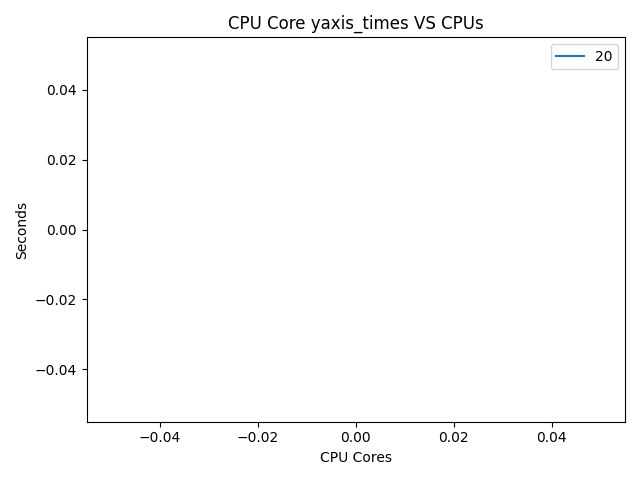
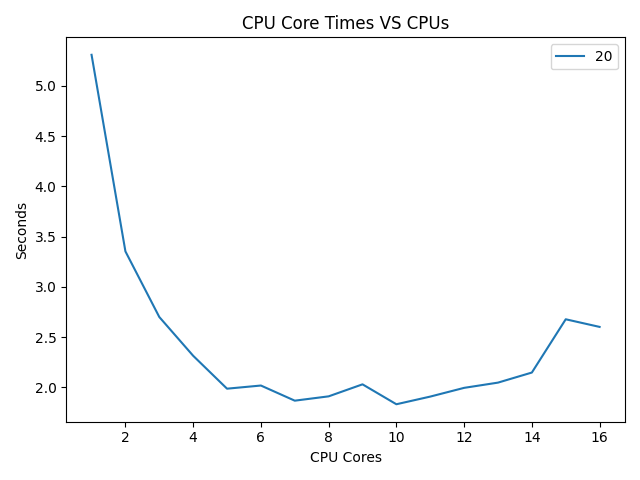
fdsa

diff --git a/lesson_03/prove/prove.py b/lesson_03/prove/prove.py
@@ -1,20 +1,3 @@
-"""
-Course: CSE 251 
-Lesson: L03 Prove
-File:   prove.py
-Author: <Add name here>
-
-Purpose: Video Frame Processing
-
-Instructions:
-
-- Follow the instructions found in Canvas for this assignment.
-- No other packages or modules are allowed to be used in this assignment.
-  Do not change any of the from and import statements.
-- Only process the given MP4 files for this assignment.
-- Do not forget to complete any TODO comments.
-"""
-
 from matplotlib.pylab import plt  # load plot library
 from setup import setup as ensure_assignment_is_setup
 from PIL import Image
@@ -30,7 +13,7 @@ CPU_COUNT = mp.cpu_count() + 4
 
 # TODO Your final video needs to have 300 processed frames.
 # However, while you are testing your code, set this much lower!
-FRAME_COUNT = 20
+FRAME_COUNT = 300
 
 # RGB values for reference
 RED = 0
@@ -70,7 +53,7 @@ def process_frames_with_pool(cpu_count):
     xaxis_cpus = []
     yaxis_times = []
 
-    all_process_time = timeit.default_timer()
+    # all_process_time = timeit.default_timer()
 
     pool = mp.Pool(processes=cpu_count)
     
@@ -87,6 +70,10 @@ def process_frames_with_pool(cpu_count):
     xaxis_cpus.append(cpu_count)
     yaxis_times.append(total_time)
 
+    # Log the total time this took
+    log.write(f'Total Time for {cpu_count} CPU Cores: {total_time} seconds.')
+    print()
+
     pool.close()
     pool.join()
 
@@ -96,19 +83,22 @@ def main():
     xaxis_cpus_all = []
     yaxis_times_all = []
 
+    log = Log(show_terminal=True)
+
     # Process frames for each CPU core count from 1 to CPU_COUNT
     for cpu_count in range(1, CPU_COUNT + 1):
         xaxis_cpus, yaxis_times = process_frames_with_pool(cpu_count)
         xaxis_cpus_all.extend(xaxis_cpus)
         yaxis_times_all.extend(yaxis_times)
 
-        # Print the total time this took for the current CPU core count
-        print(f'Total Time for {cpu_count} CPU Cores: {yaxis_times[-1]}')
+    # Calculate and print the total time
+    total_time = sum(yaxis_times_all)
+    log.write(f'Total Time for ALL PROCESSES: {total_time} seconds.')
 
     # create plot of results and also save it to a PNG file
     plt.plot(xaxis_cpus_all, yaxis_times_all, label=f'{FRAME_COUNT}')
 
-    plt.title('CPU Core yaxis_times VS CPUs')
+    plt.title('CPU Core Times VS CPUs')
     plt.xlabel('CPU Cores')
     plt.ylabel('Seconds')
     plt.legend(loc='best')
